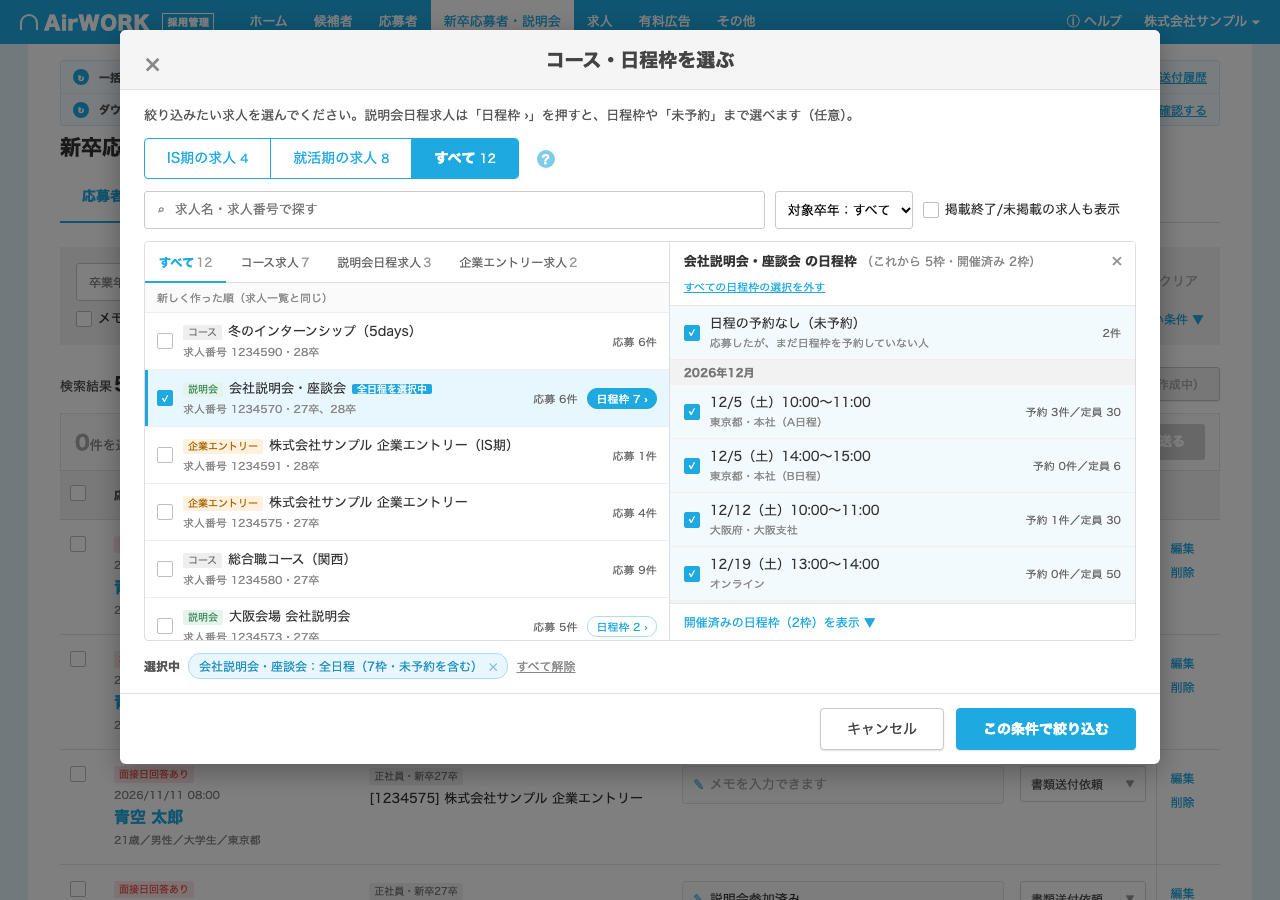
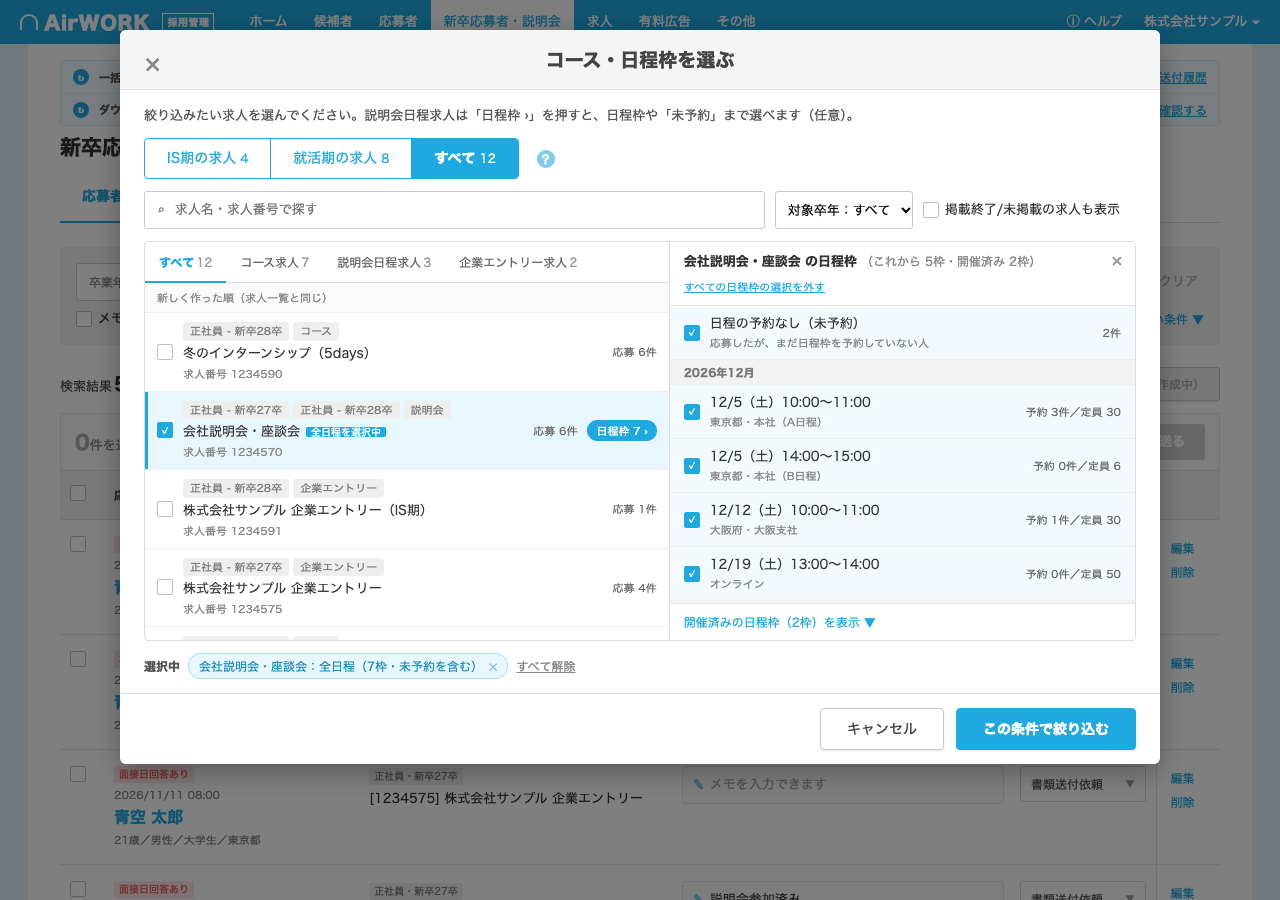
コース・日程枠モーダルの求人に「正社員 - 新卒〇卒」と種類のタグを出す

diff --git a/app.js b/app.js
@@ -482,8 +482,8 @@
       const ns = [...M.slots].filter((s) => s.startsWith(j.id + ':')).length;
       return `<div class="it ${on ? 'sel1' : ''} ${M.focus === j.id ? 'focus' : ''} ${j.posted ? '' : 'ended'}" data-j="${j.id}">
         <span class="box ${on ? 'on' : ''}" data-check="${j.id}"></span>
-        <div class="main"><div class="t1"><span class="ty ${tc}">${tl}</span>${esc(j.name)}${on && j.type === 'seminar' ? '<span class="picked">全日程を選択中</span>' : ns ? `<span class="picked">${ns}枠を選択中</span>` : ''}</div>
-        <div class="t2">求人番号 ${j.id}・${j.years.map((y) => y + '卒').join('、')}${j.posted ? '' : '・掲載終了'}</div></div>
+        <div class="main"><div class="jchips">${j.years.map((y) => `<span class="jchip">正社員 - 新卒${y}卒</span>`).join('')}<span class="jchip">${tl}</span></div><div class="t1">${esc(j.name)}${on && j.type === 'seminar' ? '<span class="picked">全日程を選択中</span>' : ns ? `<span class="picked">${ns}枠を選択中</span>` : ''}</div>
+        <div class="t2">求人番号 ${j.id}${j.posted ? '' : '・掲載終了'}</div></div>
         <div class="r">応募 ${appsOfJob(j.id).length}件</div>
         ${j.type === 'seminar' ? `<span class="slotlk">日程枠 ${SLOTS[j.id].length} ›</span>` : ''}</div>`;
     }).join('') : '<div class="rempty">条件に合う求人はありません。</div>';

diff --git a/style.css b/style.css
@@ -165,6 +165,8 @@ td.cs { padding-left: 0; }
 .it.focus { background: #E8F6FD; }
 .it.focus::before { content: ""; position: absolute; left: 0; top: 0; bottom: 0; width: 3px; background: #1FA9E1; }
 .it .main { flex: 1; min-width: 0; }
+.jchips { display: flex; flex-wrap: wrap; gap: 4px; margin-bottom: 3px; }
+.jchip { font-size: 11px; color: #777; background: #EEE; border-radius: 3px; padding: 1px 7px; line-height: 1.5; }
 .it .t1 { white-space: nowrap; overflow: hidden; text-overflow: ellipsis; }
 .it .t2 { font-size: 11px; color: #888; margin-top: 1px; }
 .it.ended .t1 { color: #999; }
